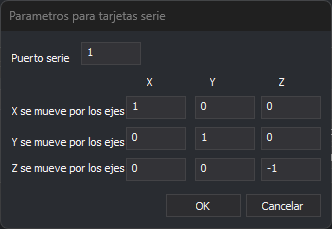
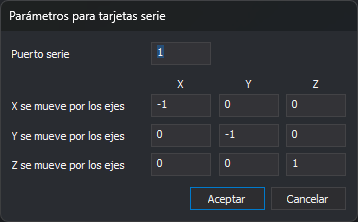
Configuración de dispositivos de entrada: capturas de los cuadros de configuración
Añade debajo de la tabla de dispositivos las capturas de los cuadros de
COMBox, IBox, DPW-USB y TopoMouse USB, y sustituye la de Parámetros para
tarjetas serie por una con los textos actuales.

diff --git a/src/digi3d-ai/referencia/cuadros-de-dialogo/configuracion-de-dispositivos-de-entrada.md b/src/digi3d-ai/referencia/cuadros-de-dialogo/configuracion-de-dispositivos-de-entrada.md
@@ -51,6 +51,14 @@ Los cuadros de diálogo de los demás dispositivos tienen la misma tabla de ejes
 | Stealth 3D Mouse S1Z/S2Z/S3Z | **Configuración del dispositivo Stealth 3D Mouse** | Ninguna: solo la tabla de ejes. |
 | TopoMouse USB | **Configuración del dispositivo TopoMouse USB** | Ninguna: solo la tabla de ejes. |
 
+![Cuadro de diálogo Parámetros de configuración de COMBox](../../../images/parametros-combox.png)
+
+![Cuadro de diálogo Parámetros de configuración de IBox, con la casilla El dispositivo es un Softmouse o un Stealth 3D Mouse](../../../images/parametros-ibox.png)
+
+![Cuadro de diálogo Parámetros de configuración de DPW-USB](../../../images/parametros-dpw-usb.png)
+
+![Cuadro de diálogo Configuración del dispositivo TopoMouse USB](../../../images/configuracion-topomouse-usb.png)
+
 Si nunca se ha guardado la configuración de un dispositivo, el cuadro de diálogo muestra los valores que usa el dispositivo por defecto. **Aceptar** guarda los valores y **Cancelar** cierra el cuadro de diálogo sin guardarlos.
 
 Cada dispositivo guarda su configuración por separado. La de Stealth 3D Mouse y TopoMouse USB se guarda para el usuario de _Windows_; la de los demás dispositivos, para el equipo.
